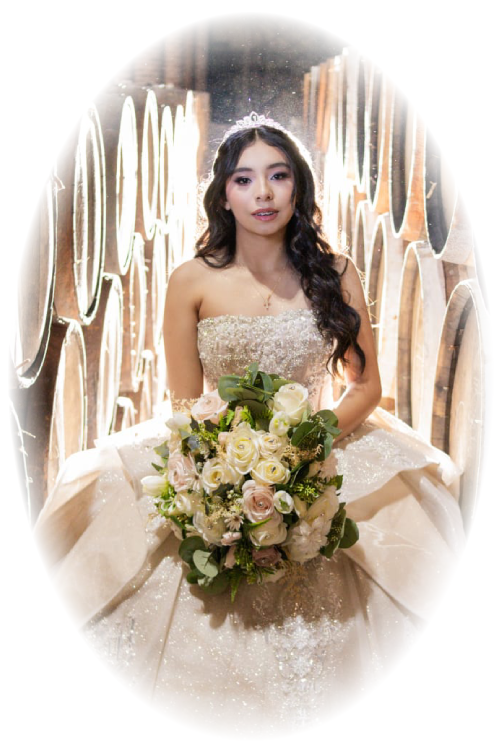
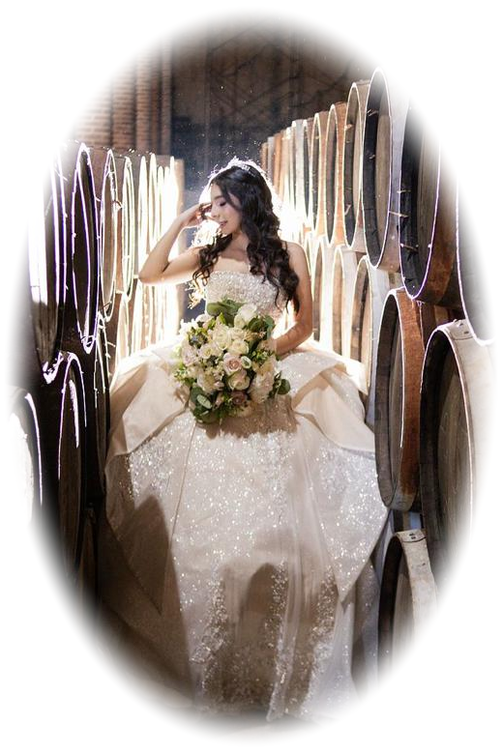
Actualiza invitación XV Michelle y agrega detalles importantes

diff --git a/downloadable/xvmichelle/components/MobileMenu/MobileMenu.js b/downloadable/xvmichelle/components/MobileMenu/MobileMenu.js
@@ -1,72 +1,84 @@
-import React, { Fragment, useState } from 'react';
-import List from "@mui/material/List";
+
+import React, { useState } from 'react';
 import ListItem from "@mui/material/ListItem";
-import Collapse from "@mui/material/Collapse";
-import { Link } from 'react-scroll'
-import NavLink from 'next/link'
+import { Link as ScrollLink } from "react-scroll";
 
 const menus = [
-    // Se eliminaron Home y Blog porque no se ocuparán en la invitación.
+    {
+        id: 1,
+        title: 'Presentación',
+        link: 'couple',
+        offset: -150,
+    },
+    {
+        id: 2,
+        title: 'Galería',
+        link: 'gallery',
+        offset: -50,
+    },
+    {
+        id: 3,
+        title: 'Eventos',
+        link: 'event',
+        offset: -50,
+    },
+    {
+        id: 4,
+        title: 'Detalles importantes',
+        link: 'detalles',
+        offset: -50,
+    },
+    {
+        id: 5,
+        title: 'Asistencia',
+        link: 'RSVP',
+        offset: -50,
+    },
 ];
-
 
 const MobileMenu = () => {
 
-    const [openId, setOpenId] = useState(0);
     const [menuActive, setMenuState] = useState(false);
 
-    const ClickHandler = () => {
-        window.scrollTo(10, 0);
-    }
+    const CloseMenu = () => {
+        setMenuState(false);
+    };
 
     return (
         <div>
             <div className={`mobileMenu ${menuActive ? "show" : ""}`}>
                 <div className="menu-close">
-                    <div className="clox" onClick={() => setMenuState(!menuActive)}><i className="ti-close"></i></div>
+                    <div
+                        className="clox"
+                        onClick={CloseMenu}
+                    >
+                        <i className="ti-close"></i>
+                    </div>
                 </div>
 
                 <ul className="responsivemenu">
-                    {menus.map((item, mn) => {
-                        return (
-                            <ListItem className={item.id === openId ? 'active' : null}  key={mn}>
-                                {item.submenu ?
-                                    <Fragment>
-                                        <p onClick={() => setOpenId(item.id === openId ? 0 : item.id)}>{item.title}
-                                          <i className={item.id === openId ? 'fa fa-angle-up' : 'fa fa-angle-down'}></i>
-                                        </p>
-                                        <Collapse in={item.id === openId} timeout="auto" unmountOnExit>
-                                            <List className="subMenu">
-                                                <Fragment>
-                                                    {item.submenu.map((submenu, i) => {
-                                                        return (
-                                                            <ListItem key={i}>
-                                                                <NavLink onClick={ClickHandler} className="active"
-                                                                    href={submenu.link}>{submenu.title}</NavLink>
-                                                            </ListItem>
-                                                        )
-                                                    })}
-                                                </Fragment>
-                                            </List>
-                                        </Collapse>
-                                    </Fragment>
-                                    : <NavLink className='active'
-                                        href={item.link}>{item.title}</NavLink>
-                                }
-                            </ListItem>
-                        )
-                    })}
-                    <li><Link activeclass="active" to="couple" spy={true} smooth={true} duration={500} >Presentación</Link></li>
-                    {/* <li><Link activeclass="active" to="story" spy={true} smooth={true} duration={500} >Especial</Link></li> */}
-                    <li><Link activeclass="active" to="gallery" spy={true} smooth={true} duration={500} >Galería</Link></li>
-                    <li><Link activeclass="active" to="RSVP" spy={true} smooth={true} duration={500} >Asistencia</Link></li>
-                    {/* <li><Link activeclass="active" to="parents" spy={true} smooth={true} duration={500}>Padres y padrinos</Link></li>                     */}
-                    <li><Link activeclass="active" to="event" spy={true} smooth={true} duration={500} >Eventos</Link></li>
+                    {menus.map((item) => (
+                        <ListItem key={item.id}>
+                            <ScrollLink
+                                activeClass="active"
+                                to={item.link}
+                                spy={true}
+                                smooth={true}
+                                duration={500}
+                                offset={item.offset}
+                                onClick={CloseMenu}
+                            >
+                                {item.title}
+                            </ScrollLink>
+                        </ListItem>
+                    ))}
                 </ul>
-
             </div>
 
-            <div className="showmenu" onClick={() => setMenuState(!menuActive)}>
+            <div
+                className="showmenu"
+                onClick={() => setMenuState(!menuActive)}
+            >
                 <button type="button" className="navbar-toggler open-btn">
                     <span className="icon-bar first-angle"></span>
                     <span className="icon-bar middle-angle"></span>
@@ -74,7 +86,7 @@ const MobileMenu = () => {
                 </button>
             </div>
         </div>
-    )
-}
+    );
+};
 
 export default MobileMenu;

diff --git a/downloadable/xvmichelle/styles/sass/page/_home-style3.scss b/downloadable/xvmichelle/styles/sass/page/_home-style3.scss
@@ -465,3 +465,121 @@
 		display: none;
 	}
 }
+
+
+.wpo-important-details-section {
+    padding: 80px 0;
+    background: #fbf8f5;
+
+    .important-details-content {
+        max-width: 850px;
+        margin: 0 auto;
+        padding: 45px 55px;
+        text-align: center;
+        background: #fff;
+        border: 1px solid #D8C4A5;
+
+        // Referencia para las flores decorativas
+        position: relative;
+        isolation: isolate;
+
+        &::before,
+        &::after {
+            content: '';
+            position: absolute;
+            width: 170px;
+            height: 170px;
+            background-repeat: no-repeat;
+            background-size: contain;
+            pointer-events: none;
+            z-index: 0;
+        }
+
+        // Esquina superior izquierda
+        &::before {
+            top: -55px;
+            left: -65px;
+            background-image: url('/images/slider/shape4.png');
+            background-position: top left;
+        }
+
+        // Esquina inferior derecha
+        &::after {
+            bottom: -55px;
+            right: -65px;
+            background-image: url('/images/slider/shape3.png');
+            background-position: bottom right;
+        }
+
+        // Mantener el contenido por encima de las decoraciones
+        > * {
+            position: relative;
+            z-index: 1;
+        }
+
+        .details-subtitle {
+            display: block;
+            color: #8A2035;
+            font-style: italic;
+            margin-bottom: 12px;
+        }
+
+        h2 {
+            color: #8A2035;
+            margin-bottom: 15px;
+        }
+
+        .details-divider {
+            width: 65px;
+            height: 2px;
+            background: #D8C4A5;
+            margin: 0 auto 30px;
+        }
+
+        .details-item {
+            margin-bottom: 25px;
+
+            h3 {
+                color: #8A2035;
+                font-size: 20px;
+                margin-bottom: 10px;
+            }
+
+            p {
+                color: #555;
+                line-height: 1.8;
+                margin-bottom: 0;
+            }
+        }
+
+        .details-thanks {
+            color: #8A2035;
+            font-style: italic;
+            margin: 30px 0 0;
+        }
+    }
+
+    @media (max-width: 767px) {
+        padding: 55px 0;
+
+        .important-details-content {
+            padding: 35px 20px;
+
+            &::before,
+            &::after {
+                width: 100px;
+                height: 100px;
+            }
+
+            &::before {
+                top: -30px;
+                left: -20px;
+            }
+
+            &::after {
+                bottom: -30px;
+                right: -20px;
+            }
+        }
+    }
+}

diff --git a/downloadable/xvmichelle/components/header/index.js b/downloadable/xvmichelle/components/header/index.js
@@ -42,12 +42,19 @@ const Header = (props) => {
                         <li><NavLink onClick={ClickHandler} href="/home4">Home style 4</NavLink></li>
                       </ul>
                     </li> */}
-                    <li><Link activeclass="active" to="couple" spy={true} smooth={true} duration={500} offset={-150} >Presentación</Link></li>
-                    {/* <li><Link activeclass="active" to="story" spy={true} smooth={true} duration={500} offset={-50}>Especial</Link></li> */}
-                    <li><Link activeclass="active" to="gallery" spy={true} smooth={true} duration={500} offset={-50}>Galería</Link></li>
-                    <li><Link activeclass="active" to="RSVP" spy={true} smooth={true} duration={500} offset={-50}>Asistencia</Link></li>
-                    {/* <li><Link activeclass="active" to="parents" spy={true} smooth={true} duration={500} offset={-50}>Padres y padrinos</Link></li> */}
-                    <li><Link activeclass="active" to="event" spy={true} smooth={true} duration={500} offset={-50}>Eventos</Link></li>
+                   <li><Link activeclass="active" to="couple" spy={true} smooth={true} duration={500} offset={-150}>Presentación</Link></li>
+
+{/* <li><Link activeclass="active" to="story" spy={true} smooth={true} duration={500} offset={-50}>Especial</Link></li> */}
+
+<li><Link activeclass="active" to="gallery" spy={true} smooth={true} duration={500} offset={-50}>Galería</Link></li>
+
+<li><Link activeclass="active" to="event" spy={true} smooth={true} duration={500} offset={-50}>Eventos</Link></li>
+
+<li><Link activeclass="active" to="detalles" spy={true} smooth={true} duration={500} offset={-50}>Detalles</Link></li>
+
+<li><Link activeclass="active" to="RSVP" spy={true} smooth={true} duration={500} offset={-50}>Asistencia</Link></li>
+
+{/* <li><Link activeclass="active" to="parents" spy={true} smooth={true} duration={500} offset={-50}>Padres y padrinos</Link></li> */}
                     {/* <li className="menu-item-has-children">
                       <NavLink onClick={ClickHandler} href="/blog">Blog</NavLink>
                       <ul className="sub-menu">

diff --git a/downloadable/xvmichelle/components/ImportantDetails/index.js b/downloadable/xvmichelle/components/ImportantDetails/index.js
@@ -1,0 +1,48 @@
+
+import React from 'react';
+
+const ImportantDetails = () => {
+    return (
+        <section className="wpo-important-details-section" id="detalles">
+            <div className="container">
+                <div className="important-details-content">
+                    <span className="details-subtitle">
+                        Un par de detalles para nuestra celebración
+                    </span>
+
+                    <h2>Detalles importantes</h2>
+
+                    <div className="details-divider"></div>
+
+                    <div className="details-item">
+                        <h3>Código de vestimenta</h3>
+                        <p>
+                            El código de vestimenta será formal.
+                            Les agradecemos elegir su atuendo evitando
+                            los tonos rosa y blanco, para respetar los
+                            colores especiales de esta celebración.
+                        </p>
+                    </div>
+
+                    <div className="details-item">
+                        <h3>Celebración para adultos</h3>
+                        <p>
+                            Hemos preparado esta ocasión como una
+                            celebración exclusiva para adultos, por lo
+                            que en esta oportunidad no será posible
+                            asistir con niñas o niños. Agradecemos mucho
+                            su comprensión y apoyo.
+                        </p>
+                    </div>
+
+                    <p className="details-thanks">
+                        ¡Gracias por acompañarme y ser parte de este
+                        momento tan especial!
+                    </p>
+                </div>
+            </div>
+        </section>
+    );
+};
+
+export default ImportantDetails;

diff --git a/downloadable/xvmichelle/pages/home3/index.js b/downloadable/xvmichelle/pages/home3/index.js
@@ -1,3 +1,4 @@
+
 import React, { Fragment } from 'react';
 import Navbar from '../../components/Navbar'
 import Hero3 from '../../components/hero3/Hero3';
@@ -5,14 +6,14 @@ import WeddingTime from '../../components/weddingTime/WeddingTime';
 import CoupleSection3 from '../../components/CoupleSection3/CoupleSection3';
 //import StorySection3 from '../../components/StorySection3/StorySection3';
 import PortfolioSection2 from '../../components/PortfolioSection2/PortfolioSection2';
+import EventSectionS2 from '../../components/EventSectionS2/EventSectionS2';
+import ImportantDetails from '../../components/ImportantDetails';
 import RSVP3 from '../../components/RSVP3';
 //import BrideGrooms from '../../components/BrideGrooms/BrideGrooms';
 import CtaSection from '../../components/CtaSection/CtaSection';
-import EventSectionS2 from '../../components/EventSectionS2/EventSectionS2';
 //import BlogSection from '../../components/BlogSection/BlogSection';
 import Footer2 from '../../components/footer2/Footer2';
 import Scrollbar from '../../components/scrollbar'
-
 
 const HomePage3 = () => {
 
@@ -24,10 +25,11 @@ const HomePage3 = () => {
             <CoupleSection3 />
             {/* <StorySection3 /> */}
             <PortfolioSection2 pClass={'pb-0'}/>
+            <EventSectionS2 />
+            <ImportantDetails />
             <RSVP3/>
             {/* <BrideGrooms tClass={'pt-0'} /> */}
             <CtaSection ctClass={'wpo-cta-section-s2'} />
-            <EventSectionS2 />
             {/* <BlogSection blogClass={'section-bg'}/> */}
             <Footer2 />
             <Scrollbar />
